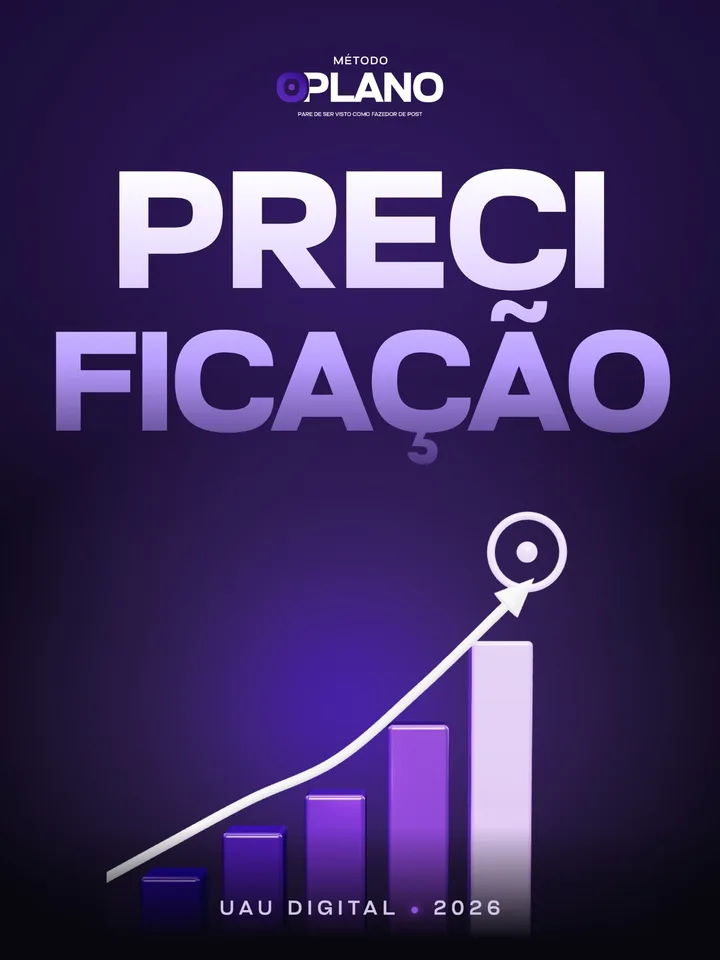
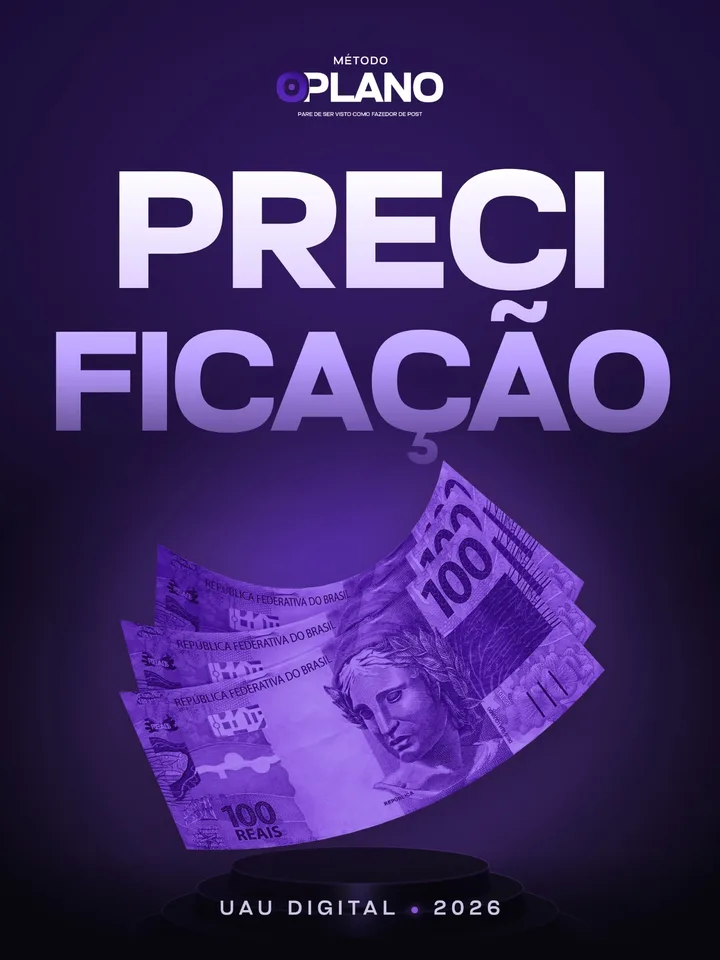
feat(o-plano-v2): nova capa do bônus de precificação
Claude-Session: https://claude.ai/code/session_01R4Tt5aSc5zBCFpoAtQhkLf

Changed region(s): [[0.1528, 0.4688, 0.8556, 0.9688]]

diff --git a/o-plano-v2/index.html b/o-plano-v2/index.html
@@ -263,7 +263,7 @@
             <div class="card__body"><span class="card__tag">Bônus 2</span><h3>O Guia do Social Media Estratégico</h3><p>Ebook de apoio para consultar sempre que precisar.</p></div>
           </li>
           <li class="card" style="--i:2">
-            <div class="card__media ph"><span class="ph-label">[CAPA DA AULA 3:4]</span><img src="img/bonus-precificacao.webp" alt="Capa do bônus Aula de Precificação, com gráfico de barras subindo" width="600" height="800" loading="lazy" decoding="async" data-ph></div>
+            <div class="card__media ph"><span class="ph-label">[CAPA DA AULA 3:4]</span><img src="img/bonus-precificacao.webp" alt="Capa do bônus Aula de Precificação, com notas de 100 reais" width="600" height="800" loading="lazy" decoding="async" data-ph></div>
             <div class="card__body"><span class="card__tag">Bônus 3</span><h3>Aula de Precificação</h3><p>Como colocar preço no seu trabalho de planejamento.</p></div>
           </li>
           <li class="card" style="--i:3">
